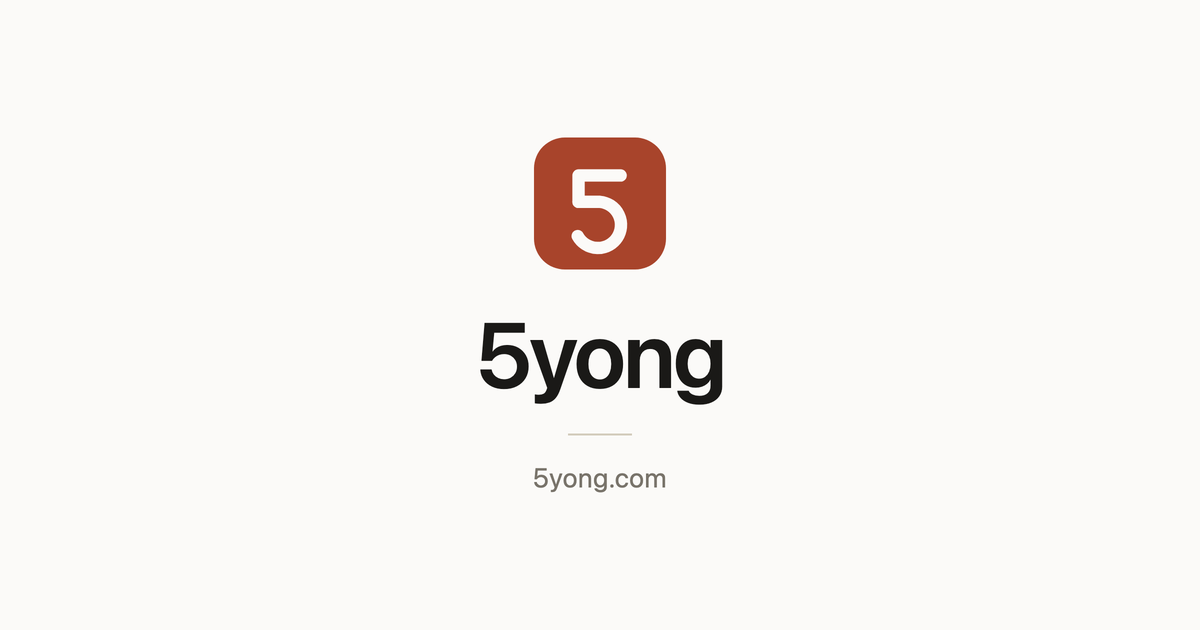
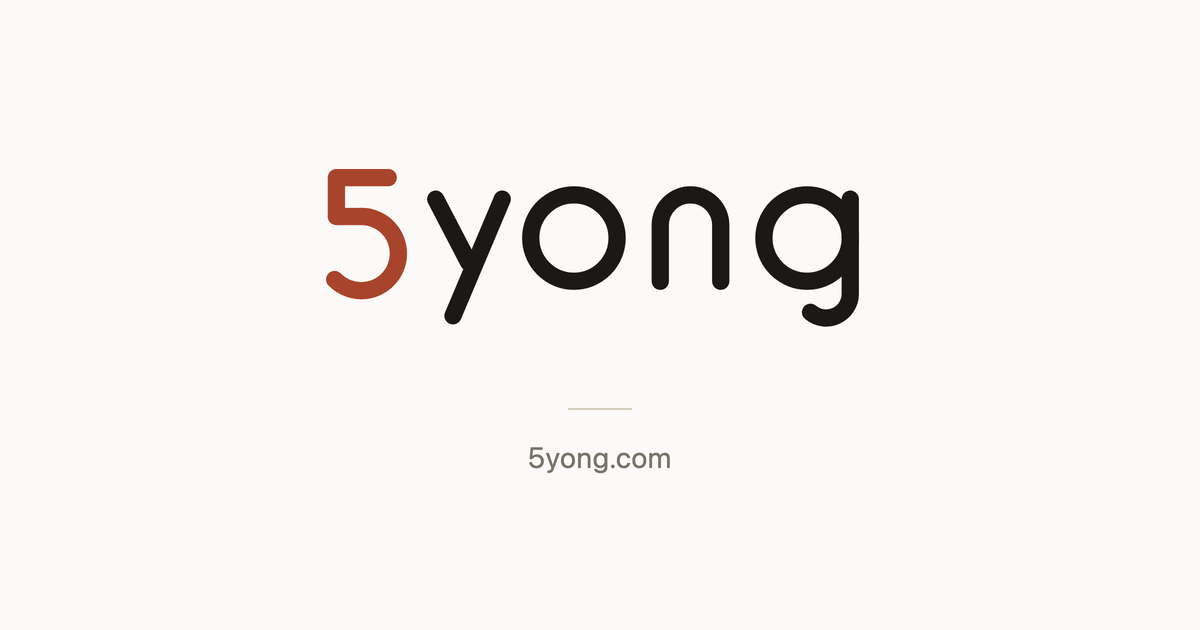
把 5yong 画成单线几何字标
原来页头是「圆角方块 + 系统字」，一个标识里混了两种造字逻辑：
方块里的 5 是我用单线圆头画的，旁边的字却是 SF Pro / 苹方。

现在 yong 也用同一套几何画出来——统一笔宽 4、圆头圆角，
x 高 20、基线 28、降部 36。5 用强调色，其余用正文色，
都走 CSS 变量，跟随深浅主题。

于是标识成了一套系统：字标是这个词本身，图标是把首字 5
装进圆角方块，同一笔形的裁切。

- 页头换成内联 SVG 字标，另加视觉隐藏的「5yong」供读屏与检索
- og.png 重出，改用字标
- 字距调匀：原来 yo 挤（间隙 5.6）、on / ng 松（12），
  现在分别是 6.6 / 10 / 10

Claude-Session: https://claude.ai/code/session_014VNU51EXWz833a3qRhVjad

Changed region(s): [[0.2467, 0.2111, 0.74, 0.5429], [0.4008, 0.5127, 0.6167, 0.7841]]

diff --git a/index.html b/index.html
@@ -72,23 +72,23 @@ body {
 
 header { padding: 6rem 0 4rem; }
 
-h1 {
-  margin: 0;
-  display: flex;
-  align-items: center;
-  gap: 0.65rem;
-  font-size: 1.75rem;
-  font-weight: 600;
-  line-height: 1.3;
-  letter-spacing: -0.01em;
-  color: var(--ink);
+h1 { margin: 0; line-height: 0; }
+
+.wordmark {
+  display: block;
+  height: 2.5rem;
+  width: auto;
 }
 
-.mark {
-  flex: none;
-  width: 2.25rem;
-  height: 2.25rem;
-  display: block;
+.sr {
+  position: absolute;
+  width: 1px;
+  height: 1px;
+  margin: -1px;
+  padding: 0;
+  overflow: hidden;
+  clip-path: inset(50%);
+  white-space: nowrap;
 }
 
 .project {
@@ -170,8 +170,7 @@ a:hover { border-bottom-color: currentColor; }
 
 @media (max-width: 34rem) {
   header { padding: 3.75rem 0 2.5rem; }
-  h1 { font-size: 1.5rem; gap: 0.55rem; }
-  .mark { width: 2rem; height: 2rem; }
+  .wordmark { height: 2.125rem; }
   .project { margin-top: 2.25rem; padding-top: 2.25rem; }
 }
 </style>
@@ -181,7 +180,7 @@ a:hover { border-bottom-color: currentColor; }
 <div class="wrap">
 
 <header>
-  <h1><svg class="mark" viewBox="0 0 32 32" aria-hidden="true"><rect width="32" height="32" rx="7.5" fill="var(--accent)"/><g fill="none" stroke="var(--bg)" stroke-width="3" stroke-linecap="round" stroke-linejoin="round"><path d="M21 9.2 H10.8 V15.6"/><path d="M10.8 15.6 H16 A5.6 5.6 0 1 1 10.6 23.9"/></g></svg>5yong</h1>
+  <h1><svg class="wordmark" viewBox="-3 -1 134 44" aria-hidden="true"><g fill="none" stroke-width="4" stroke-linecap="round" stroke-linejoin="round"><g stroke="var(--accent)"><path d="M15 4 H3 V13"/><path d="M3 13 H8.5 A8.6 8.6 0 1 1 2.6 27.6"/></g><g stroke="var(--ink)"><path d="M26 9 L33.6 23.6"/><path d="M41.4 9 L30 36"/><circle cx="58" cy="18" r="10"/><path d="M78 28 V15 A7 7 0 0 1 92 15 V28"/><circle cx="112" cy="18" r="10"/><path d="M122 9 V30.8 A5.6 5.6 0 0 1 112.8 35.2"/></g></g></svg><span class="sr">5yong</span></h1>
 </header>
 
 <main>

diff --git a/README.md b/README.md
@@ -28,5 +28,8 @@ CNAME                   # 自定义域
 没有构建脚本、没有依赖、没有 workflow 文件。
 发布走 GitHub 内置的 `pages-build-deployment`，不需要在仓库里维护。
 
-三张 PNG 由 headless Chrome 渲染 HTML 模板得到，模板未入库——
-改动时按 `index.html` 里的 logo 路径重画即可。
+标识是手绘的单线几何字标（不是字体）：统一笔宽 4、圆头圆角，
+x 高 20、基线 28、降部 36，`5` 用强调色。SVG 路径就在 `index.html`
+的 `<h1>` 里，用 CSS 变量上色，跟随主题。图标是同一个 `5` 装进圆角方块。
+
+PNG 由 headless Chrome 渲染 HTML 模板、2× 出图再缩到位，模板未入库。
